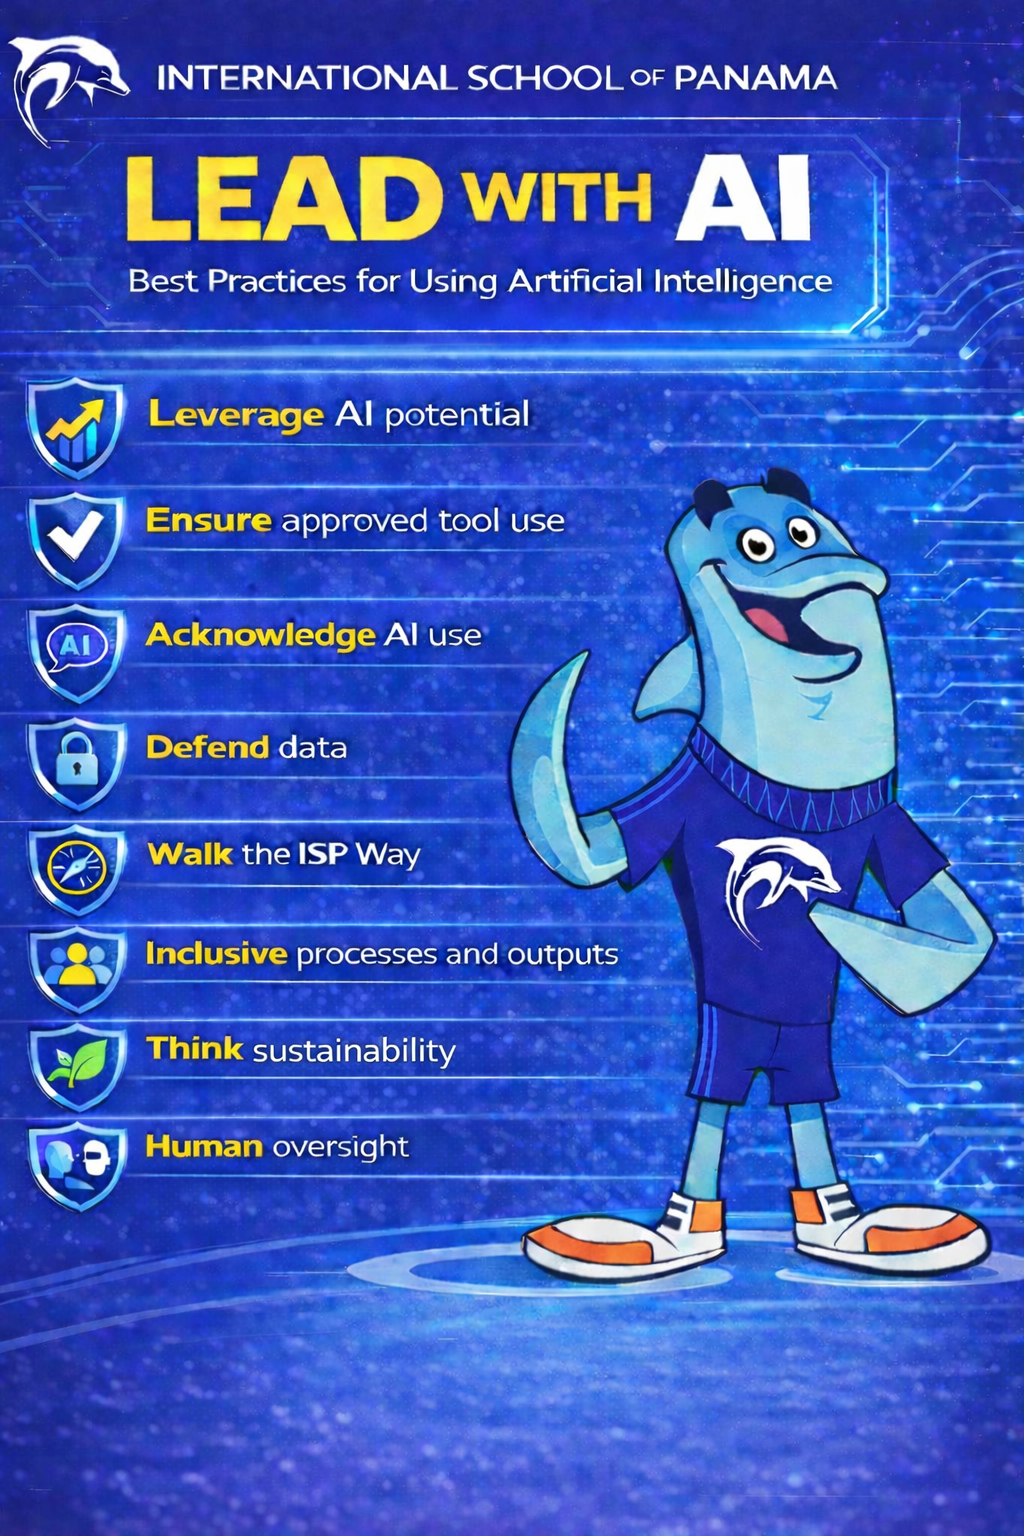
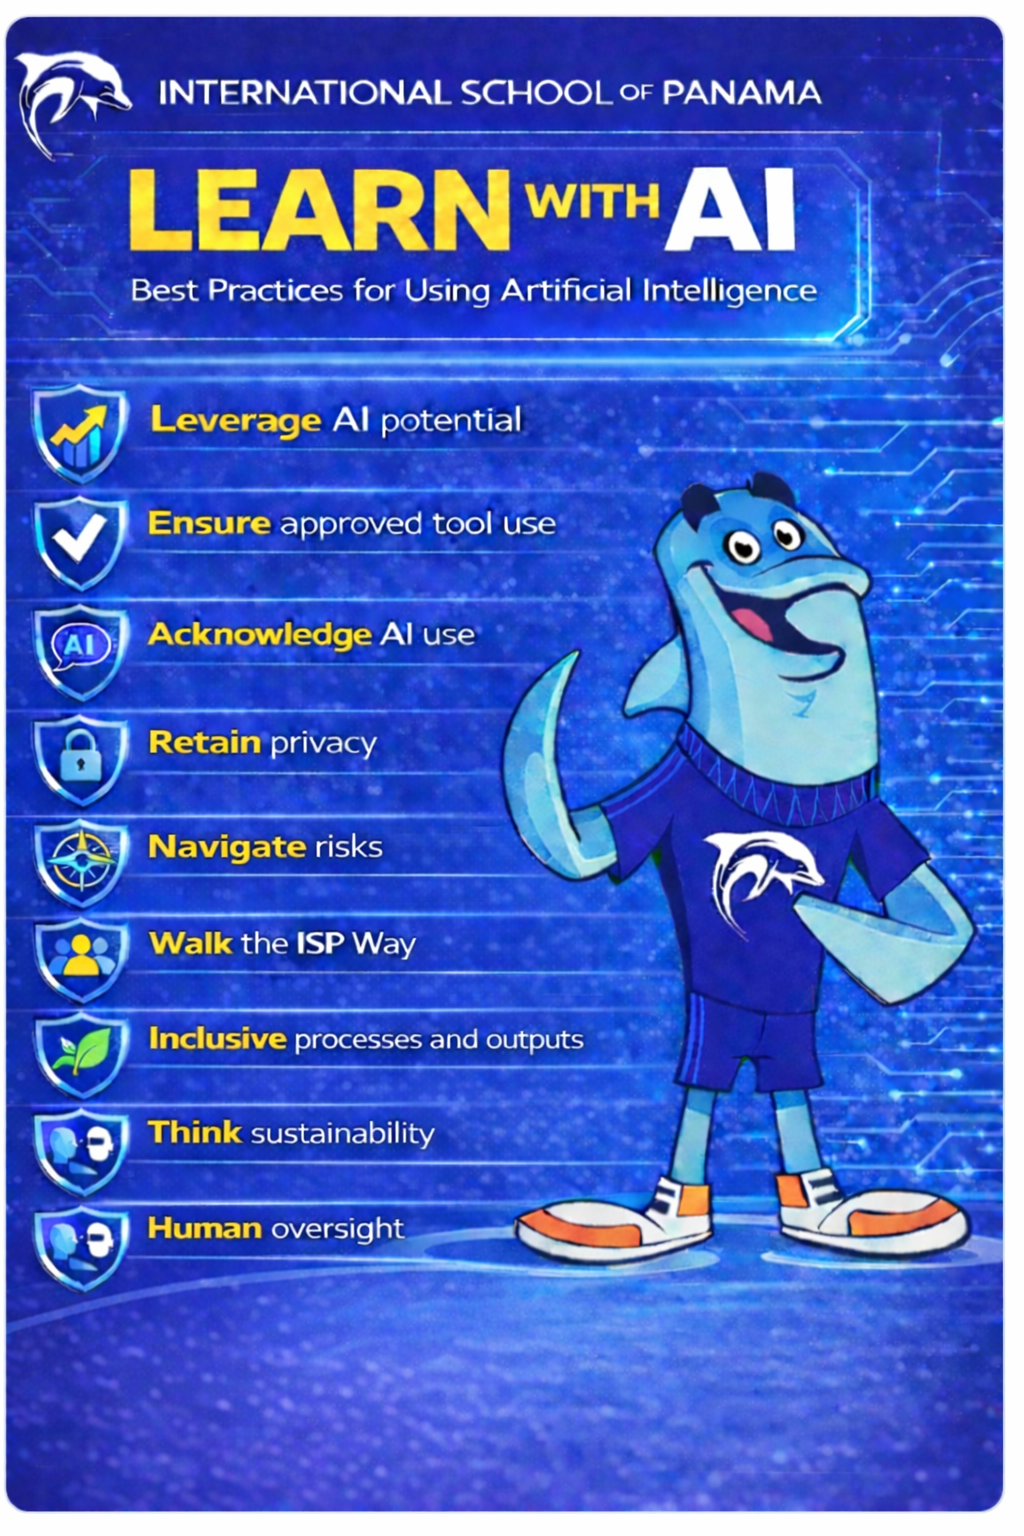
Replace remaining LEAD WITH AI references and fallback image

diff --git a/index.html b/index.html
@@ -51,7 +51,7 @@
         </a>
         <a class="home-card" href="./infographics.html">
           <h3>RAIL Infographics</h3>
-          <p>View and share the Core Values and Practices, SAFE AI, and LEAD WITH AI visuals.</p>
+          <p>View and share the Core Values and Practices, SAFE AI, and LEARN WITH AI visuals.</p>
         </a>
         <a class="home-card" href="./action-plan.html">
           <h3>RAIL Action Plan</h3>
